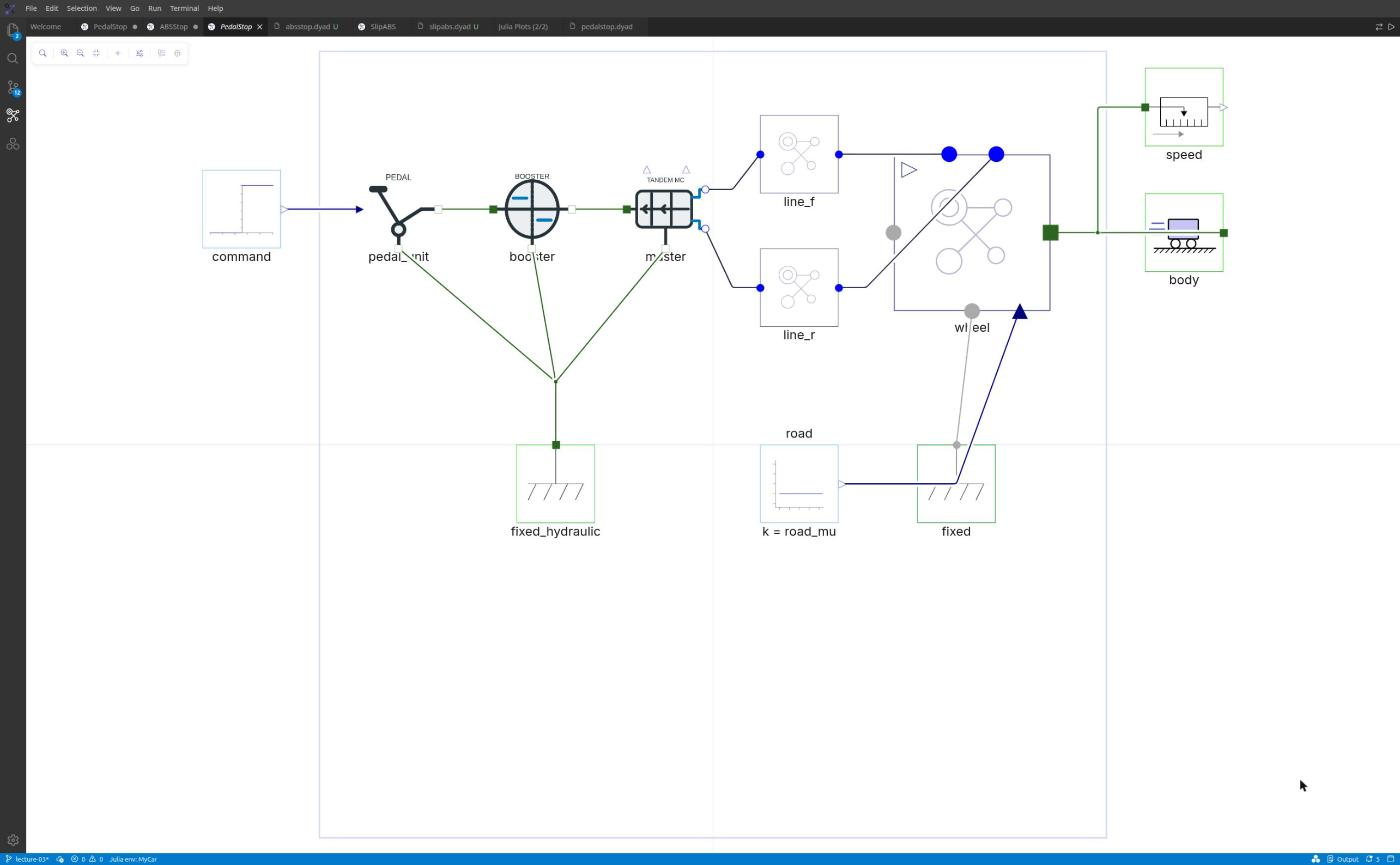
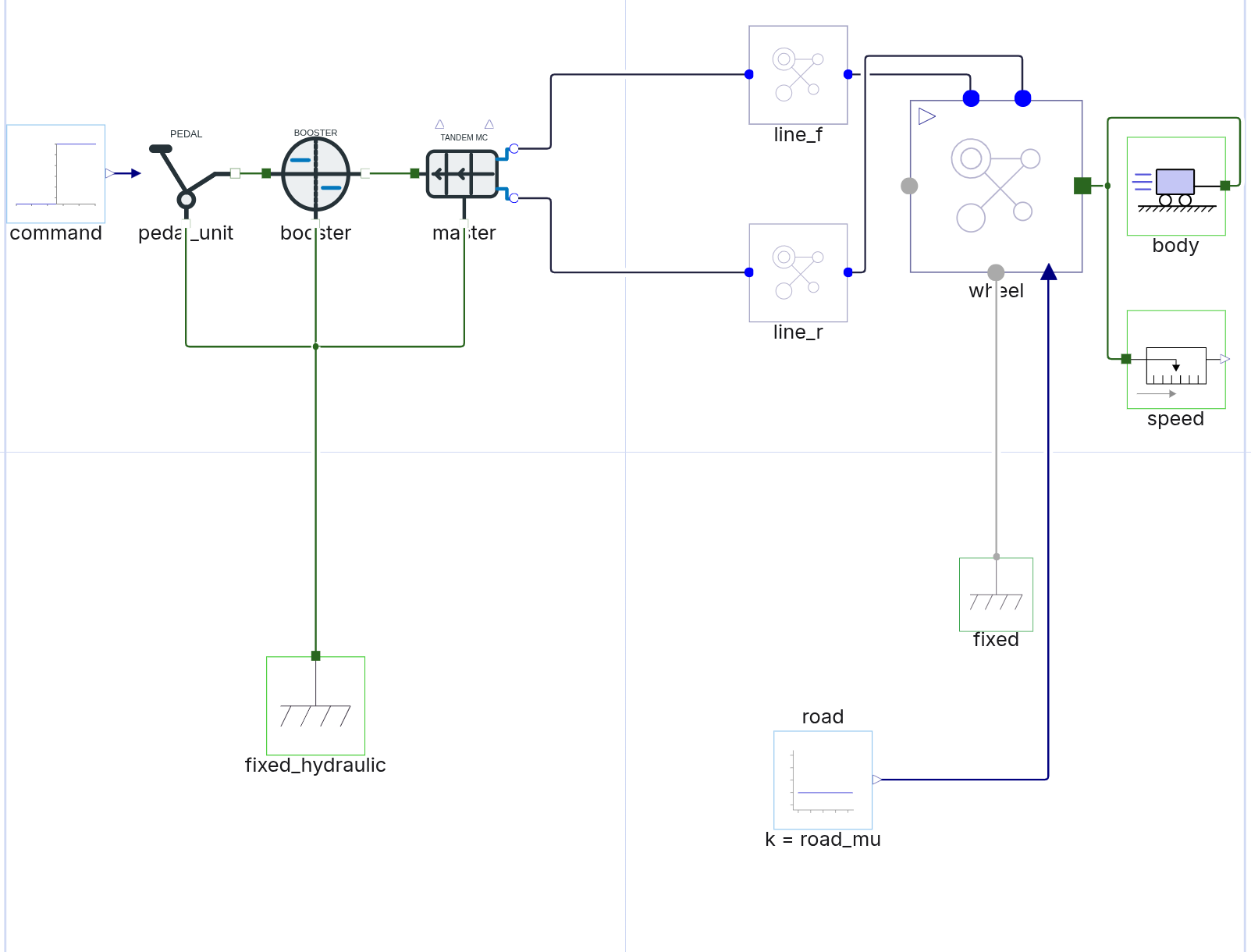
docs(handson03): route the reference bench wires and re-take their screenshots
The reference PedalStop, ABSStop and ABSStopWheelOnly carried no wire routes, so Studio drew every
wire as a diagonal across the blocks, and the build slides showed that. The three benches now
share one left-to-right layout: pedal, booster, master, valves, lines, wheel, with body and speed
on the right, the grounds and road below, and the ABS blocks in a row under the hydraulics. The
ABS benches only add blocks, so a block stays in the same place from build 02 to build 04. Every
wire is orthogonal and none crosses a block.

Only diagram metadata changed: outside it the three files match the previous commit, and the
compile leaves generated/ untouched. The finished-bench screenshots are re-taken, cropped to the
diagram.

diff --git a/docs/lecture-03-screenshots.md b/docs/lecture-03-screenshots.md
@@ -7,7 +7,9 @@ copies that folder into the deck and the guide page. Step numbers match
 `docs/lecture-03-handson-plan.md`.
 
 The three bench diagrams (`step02-pedal-bench`, `step03-abs-bench`, `step04-wheel-only-bench`)
-are screenshots of the `dyad/HandsOn03/` reference diagrams, whose layout is in their metadata.
+are screenshots of the `dyad/HandsOn03/` reference diagrams, whose layout and orthogonal wire routes
+are in their metadata. The three share one layout: the ABS benches only add blocks, so the shared
+blocks sit in the same place in all three shots, and each shot is cropped to the same region.
 The three code views, the phase plot and the REPL table come from the rehearsal's own `MyCar`,
 as a student sees them; the code views therefore show Studio's `"short … component description"`
 and diagram-only port placements, not the reference files' text. The plots in SVG are not
@@ -35,12 +37,12 @@ The conventions for a re-capture:
 | File | Step | Model | What it shows | Used on | Status |
 | ---- | ---- | ----- | ------------- | ------- | ------ |
 | `step00-wheel-library.png` | 00 | any diagram | The **+** library panel open at `VehicleSystemsComponents › Vehicle › Wheel`, listing `BrakedWheel`, `HydraulicBrakedWheel`, `BrakeActuator`, `TireFrictionCurve`; `HandsOn03` visible one level up. | deck build 00, guide 00 | done, rehearsal `MyCar` |
-| `step02-pedal-bench.png` | 02 | `HandsOn03.PedalStop` | The finished hydraulic chain: `command` → `pedal_unit` → `booster` → `master` from the left, `fixed_hydraulic` under the three housings, `line_f` and `line_r` into `wheel`, `road` and `fixed` under the wheel, `body` and `speed` on the right; the three-way junction on `body.flange`. | guide 02 | done, reference diagram, full window |
+| `step02-pedal-bench.png` | 02 | `HandsOn03.PedalStop` | The finished hydraulic chain: `command` → `pedal_unit` → `booster` → `master` from the left, `fixed_hydraulic` under the three housings, `line_f` and `line_r` into `wheel`, `road` and `fixed` under the wheel, `body` and `speed` stacked on the right, with the three-way junction on the `wheel.flange` wire between them. | guide 02 | done, reference diagram, cropped to the diagram, routed wires |
 | `step03-slipabs-code.png` | 03 | `HandsOn03.SlipABS` | The code view: the `pressure` line, the rate `ifelse`, the `cycled` latch, the `p_cmd` line and the three look-ahead lines. | guide 03 | done, rehearsal `MyCar` |
-| `step03-abs-bench.png` | 03 | `HandsOn03.ABSStop` | Build 02's chain with `valve_f` and `valve_r` between `master` and the lines; `abs` below, `master.p_mc`, `wheel.kappa` and `speed.v` into it, `abs.p_cmd` out to both valves. | guide 03 | done, reference diagram, full window |
+| `step03-abs-bench.png` | 03 | `HandsOn03.ABSStop` | Build 02's chain with `valve_f` and `valve_r` between `master` and the lines; `abs` below, `master.p_mc`, `wheel.kappa` and `speed.v` into it, `abs.p_cmd` out to both valves. | guide 03 | done, reference diagram, cropped to the diagram, routed wires |
 | `step04-estimator-code.png` | 04 | `HandsOn03.RefSpeedEstimator` | The code view, all seven relations. | guide 04 | done, rehearsal `MyCar` |
 | `step04-phaseabs-code.png` | 04 | `HandsOn03.PhaseABS` | The code view: the `phase` line, the `cycled` latch and the nested rate `ifelse`. | guide 04 | done, rehearsal `MyCar` |
-| `step04-wheel-only-bench.png` | 04 | `HandsOn03.ABSStopWheelOnly` | `wspeed` on `wheel.spline`, `est` with its three outputs into `abs`; no wire from `wheel.kappa` or `speed.v` into `abs`. | guide 04 | done, reference diagram, full window |
+| `step04-wheel-only-bench.png` | 04 | `HandsOn03.ABSStopWheelOnly` | `wspeed` on `wheel.spline`, `est` with its three outputs into `abs`; no wire from `wheel.kappa` or `speed.v` into `abs`. | guide 04 | done, reference diagram, cropped to the diagram, routed wires |
 | `step04-phase-plot.png` | 04 | `HandsOn03.ABSStopWheelOnlyTransient(road_mu = 0.3, stop = 20)` | The guide's REPL plot of `abs.phase`, `abs.p_cmd` and `wheel.caliper_f.p` from 1.0 to 2.5 s, as a student sees it. | guide 04 | done, rehearsal `MyCar` |
 | `step05-surface-table.png` | 05 | the REPL | The step 05 loop's three printed rows. | guide 05 | done, rehearsal `MyCar` |
 
@@ -48,7 +50,7 @@ The conventions for a re-capture:
 
 Eighteen shots of the build in progress, captured from the student project `~/TMP/MyCar`
 (scratch branch `lecture-03-shots`) in Dyad Studio web in a 1600 × 1000 window. Each is cropped
-to the pane, like Lecture 1's, unlike the three full-window bench diagrams above. The diagrams
+to the pane, like Lecture 1's and like the three bench diagrams above. The diagrams
 have a tidied layout and wire routes; model behavior is unchanged. The plots come from the guide's
 own REPL snippets, with the Plotly backend in the Julia Plots tab, at the size of
 `step04-phase-plot.png`. The distances read from the same runs match the guide: 35.96 m (pedal

diff --git a/slides/decks/lecture-03/sections/02-brakes.md b/slides/decks/lecture-03/sections/02-brakes.md
@@ -400,7 +400,7 @@ steps with every line of code; its "Do this" numbers are in brackets.
    - The wheel under the car: `road.y` → `wheel.mu_scale`, `wheel.flange` → `body.flange`, and
      `speed.flange` → the same `body.flange`.
    Check against the slide: the green tree under the three housings, the two blue circuits
-   through the lines, the gray wire down to `fixed`, the three-way junction on `body.flange`.
+   through the lines, the gray wire down to `fixed`, the three-way junction on the `wheel.flange` wire, left of `body`.
 
 5. The brake fluid [4]. Toggle to code (⇄) and paste from the guide: the `path medium` line
    above relations, the `continuity` line inside them. Dyad cannot declare a fluid inside a
